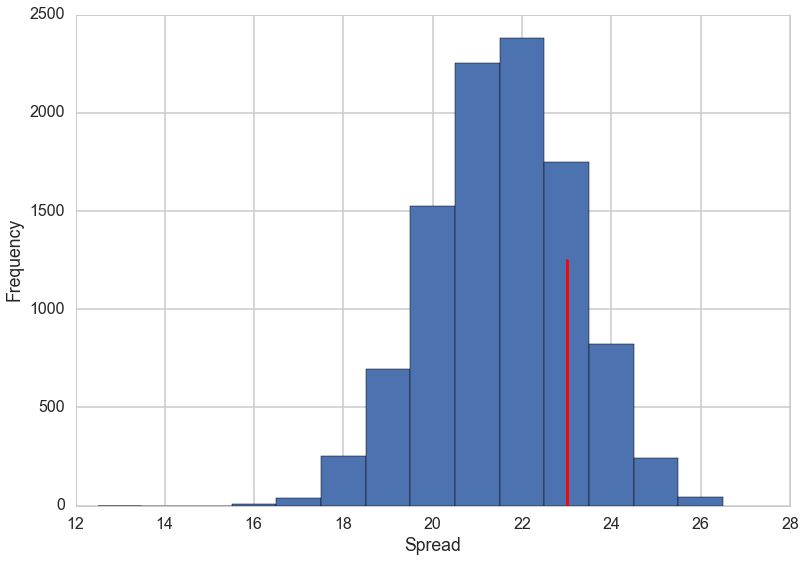
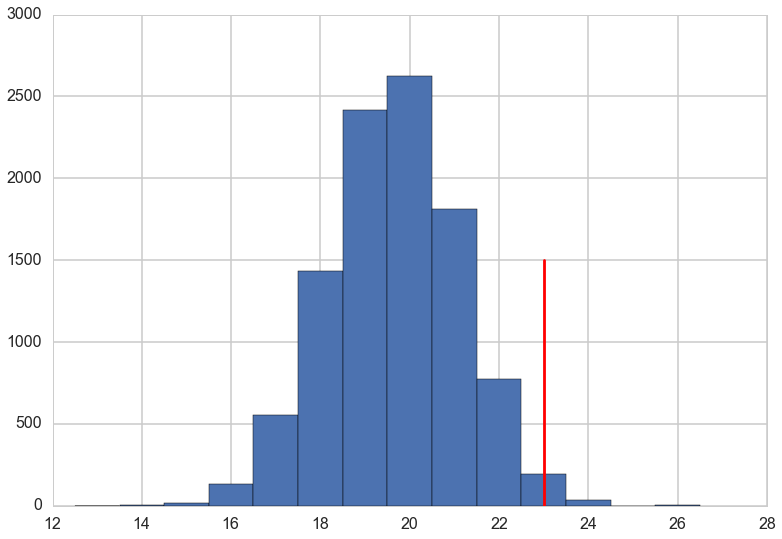
article going

Changed region(s): [[0.0, 0.0, 1.0, 0.9796]]

diff --git a/article.md b/article.md
@@ -5,8 +5,8 @@ Probability is everywhere.  From everyday tasks like checking the weather, to mo
 But how accurate are these polls?  Often times people are skeptical of what polls say, as there are numerous factors that can potentially skew the results, such as who is responding to these polls and how opinions change over time.  From here on we will refer to these factors *biases*.  I will make the case to you, the reader, that polls are in fact very accurate in predicting election results; we just have to be diligent in the way that we interpret the data, for it is much more complex than what is presented at face value.
 
 ![image](images/Senate_Seats.png?raw=true)
+
+![image](images/Senate_Seats_Weighted.png?raw=true)
+
+![image](images/Senate_Seats_Weighted_Unbiased.png?raw=true)
 Caption: The bar graph represents the distribution for how many seats we think the Republicans will win, while the red line reflects the actual number of seats won (23).  Not too far off!
-
-![image](images/OldDem_NewDem_Linear.png?raw=true)
-
-![image](images/Spread_Across_States.png?raw=true)
